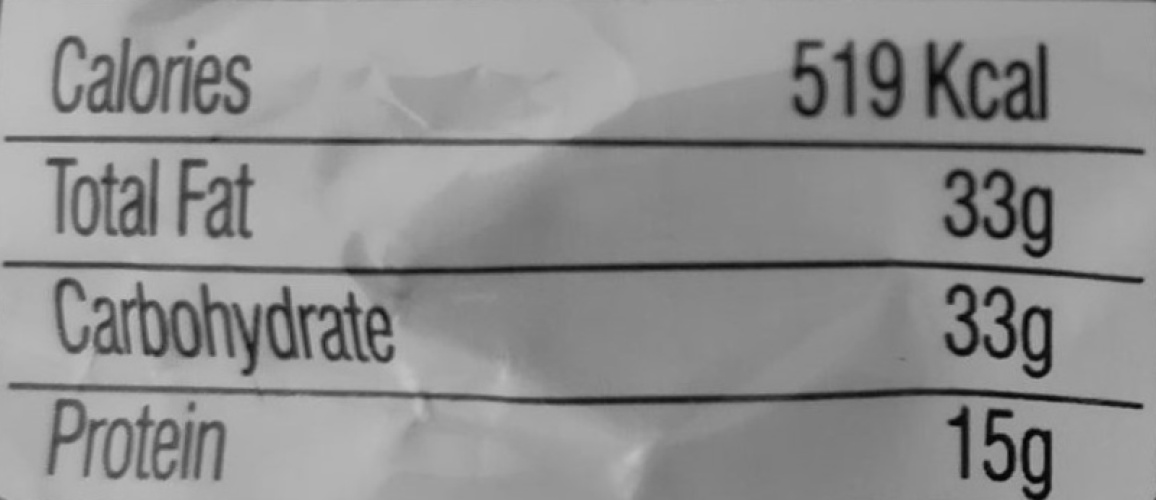
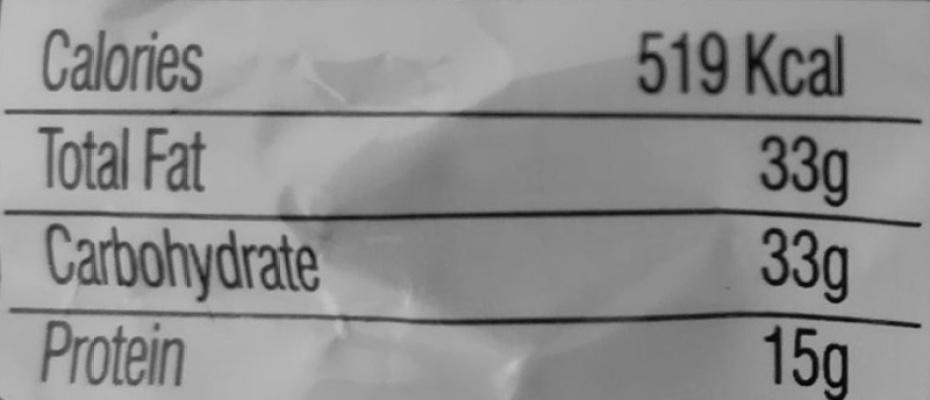
Added text matching

diff --git a/ml/textDetection.py b/ml/textDetection.py
@@ -6,6 +6,9 @@ import cv2
 import tesserocr
 from PIL import Image
 
+import re
+from fuzzywuzzy import fuzz
+
 from os import path
 
 PATH = path.abspath('./tessdata')
@@ -40,6 +43,7 @@ net = cv2.dnn.readNet('./models/frozen_east_text_detection.pb')
 def detectTextsArea(image, orig, confidence):
     global W, H, rW, rH
 
+    readTexts = []
     # define the two output layer names for the EAST detector model that
     # we are interested -- the first is the output probabilities and the
     # second can be used to derive the bounding box coordinates of text
@@ -114,7 +118,7 @@ def detectTextsArea(image, orig, confidence):
     # apply non-maxima suppression to suppress weak, overlapping bounding
     # boxes
     boxes = non_max_suppression(np.array(rects), probs=confidences)
-
+   
     # loop over the bounding boxes
     for (startX, startY, endX, endY) in boxes:
         # scale the bounding box coordinates based on the respective
@@ -131,16 +135,15 @@ def detectTextsArea(image, orig, confidence):
 
         text = readText(orig[startY+box_offset_neg:endY+box_offset_pos,
                              startX+box_offset_neg:endX+box_offset_pos])
+        readTexts.append(text.replace('\n',''))
         # draw the bounding box on the image
         cv2.rectangle(orig, (startX, startY), (endX, endY), (0, 255, 0), 2)
        # print(text)
         cv2.putText(orig, text, (startX, startY-10),
                     cv2.FONT_HERSHEY_SIMPLEX, 0.5, 255)
+    
+    return readTexts
 
-    # show the output image
-    cv2.imshow("Text Detection", orig)
-    # cv2.imwrite("images/text_area_detected.jpg", orig)
-    cv2.waitKey(0)
 
 
 def readText(roi):
@@ -149,9 +152,55 @@ def readText(roi):
     img = Image.fromarray(roi)
 
     return tesserocr.image_to_text(img, path=PATH)
+def matchText(readTexts,dbTexts):
+    '''
+        Match the texts read by application to the keywords defined in database
+        readTexts: list of texts that application read
+        dbTexts: list of tags user set to track
+    '''
+
+    matchRatio = 60
+
+    print("Matching Texts")
+    for i,text in enumerate(readTexts):
+        maxRatio = 0
+        maxj = 0
+        # print(text)
+        newText = re.sub(r'^[0-9]+','',text,5)
+
+        if(len(newText)==0): continue
+
+        if(newText != text):
+            continue
+        # print(text)
+        for j,tag in enumerate(dbTexts):
+            ratio = fuzz.partial_ratio(text,tag)
+            print(text,tag,ratio)
+            if ratio > matchRatio and ratio > maxRatio:
+                maxRatio = ratio
+                maxj = j
+        if(maxRatio > 80):
+            readTexts[i] = dbTexts[maxj]
+    return readTexts
+
 
 
 if __name__ == "__main__":
-    image, orig = load_and_resize('./images/threshold_cropped.jpg', 640, 480)
-    detectTextsArea(image, orig, 0.4)
+    image, orig = load_and_resize('./images/WARPED_cropped.jpg', 704, 512)
+
+    dbTexts = [
+        'Carbohydrate', 'Calories', 'Protein', 'Fat','g', 'gram', 'Kcal','Carbs',
+        'Total Fat'
+    ]
+
+    texts = detectTextsArea(image, orig, 0.4)
+    print(orig.shape)
+    cv2.imshow("TextDetection", orig)
+    cv2.imshow("TextDetection", orig)
+    # cv2.imwrite("images/text_area_detected.jpg", orig)
+    cv2.waitKey(0)
+    print(texts)
+    texts = matchText(texts,dbTexts)
+    print("After matching")
+    print(texts)
     

diff --git a/ml/preprocessing.py b/ml/preprocessing.py
@@ -5,16 +5,16 @@ import imutils
 from helpers.transform import four_point_transform
 
 ratio = None
-
+R_H = 400
 
 def load_image(imgPath):
     if not os.path.exists(imgPath):
         return None, None
     global ratio
     image = cv2.imread(imgPath)
-    ratio = image.shape[0]/500.0
+    ratio = image.shape[0]/R_H
     orig = image.copy()
-    image = imutils.resize(image, height=500)
+    image = imutils.resize(image, height=R_H)
     return image, orig
 
 
@@ -52,9 +52,9 @@ if __name__ == "__main__":
         T, warped = wrap_transform(resized, original)
         if T is not None:
             cv2.imwrite('./images/threshold_cropped.jpg', T)
-            cv2.imwrite('./images/WARPED_cropped.jpg',  imutils.resize(warped, height=500))
-            cv2.imshow("Threshold", imutils.resize(T, height=500))
-            cv2.imshow("Warped", imutils.resize(warped, height=500))
+            cv2.imwrite('./images/WARPED_cropped.jpg',  imutils.resize(warped, height=R_H))
+            cv2.imshow("Threshold", imutils.resize(T, height=R_H))
+            cv2.imshow("Warped", imutils.resize(warped, height=R_H))
             cv2.waitKey(0)
         else:
             print("T is none")
